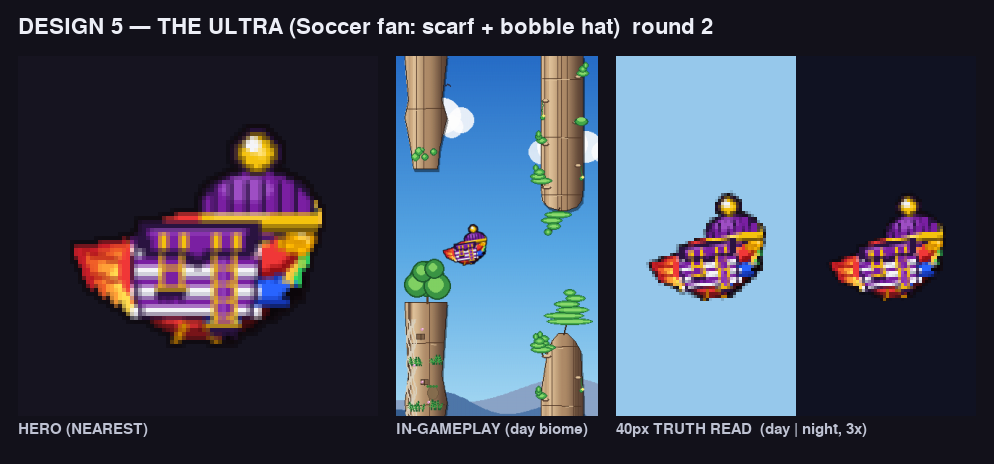
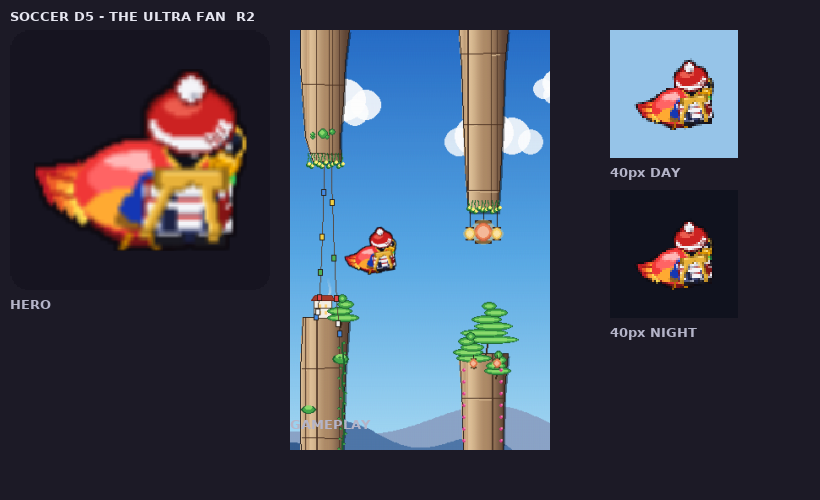
Soccer D5 Ultra Fan R2: V-split scarf tails, hat separation, boot sole
Claude-Session: https://claude.ai/code/session_01HafGQfRZVDiGkQqpJPr5Cm

diff --git a/tools/soccer_candidates/design_5.py b/tools/soccer_candidates/design_5.py
@@ -72,7 +72,9 @@ def _paint(surf, _a):
     # --- BOOTS at the feet line (HY+24..27) with a sole tick --------------------
     for fx in (HX - 11, HX + 1):
         pygame.draw.rect(surf, _DARK, (fx, HY + 24, 9, 3), border_radius=2)
-        pygame.draw.line(surf, _NAVY_H, (fx + 1, HY + 24), (fx + 7, HY + 24), 1)
+        # Bright top-edge highlight so the dark boots still read as feet against
+        # the night sky, where a near-black boot otherwise vanishes.
+        pygame.draw.line(surf, _WHITE_D, (fx + 1, HY + 24), (fx + 7, HY + 24), 1)
         # Sole tick under the boot — the football-boot read.
         pygame.draw.line(surf, _DARK, (fx, HY + 27), (fx + 8, HY + 27), 1)
 
@@ -82,7 +84,12 @@ def _paint(surf, _a):
     pygame.draw.ellipse(surf, _RED_D, (HX - 13, CROWN_Y - 9, 26, 19))   # rim halo
     pygame.draw.ellipse(surf, _RED, (HX - 12, CROWN_Y - 8, 24, 18))
     pygame.draw.ellipse(surf, _RED_H, (HX - 8, CROWN_Y - 6, 11, 6))      # dome sheen
-    # White rim line hugging the cap's lower edge so the hat separates from crown.
+    # Dark-red separation ring along the cap's lower edge: both hat and crown are
+    # club red, so without this seam the dome merges into the macaw's head. The
+    # bright white rim arc then sits just inside it, so the hat reads as a
+    # distinct object resting ON the head, not painted onto it.
+    pygame.draw.arc(surf, _RED_D, (HX - 13, CROWN_Y - 7, 26, 18),
+                    3.30, 6.12, 2)
     pygame.draw.arc(surf, _WHITE, (HX - 12, CROWN_Y - 8, 24, 18),
                     3.34, 6.08, 2)
     # Pompom standing on the very top — white ball with a dark ring.
@@ -91,34 +98,35 @@ def _paint(surf, _a):
     pygame.draw.circle(surf, _WHITE_D, (HX + 1, CROWN_Y - 6), 1)
 
     # --- SCARF (THE HERO — drawn LAST so it drapes in FRONT of everything) -------
-    # A gold club scarf looped once at the neck, with two staggered hanging tails.
-    # Gold shadow + bright gold face on every shape so the knit reads as fabric
-    # draped over the shirt, not a flat sticker. Loop sits at HY+5..11.
-    loop = [(HX - 13, HY + 5), (HX + 12, HY + 5), (HX + 12, HY + 11),
-            (HX + 3, HY + 11), (HX, HY + 9), (HX - 3, HY + 11), (HX - 12, HY + 11)]
+    # A gold club scarf looped once at the neck, then SPLIT into a clear V at the
+    # throat: one tail draped out along the LEFT wing edge, one down the RIGHT,
+    # with a strip of bare red jersey (and its white hoops) showing between them.
+    # Narrowed 2px each side vs v1 so at least two jersey hoops stay visible.
+    loop = [(HX - 11, HY + 5), (HX + 10, HY + 5), (HX + 10, HY + 11),
+            (HX + 3, HY + 11), (HX, HY + 9), (HX - 3, HY + 11), (HX - 10, HY + 11)]
     _poly(surf, _GOLD_D, loop)
-    loop_in = [(HX - 11, HY + 6), (HX + 10, HY + 6), (HX + 10, HY + 10),
-               (HX + 3, HY + 10), (HX, HY + 8), (HX - 3, HY + 10), (HX - 10, HY + 10)]
+    loop_in = [(HX - 9, HY + 6), (HX + 8, HY + 6), (HX + 8, HY + 10),
+               (HX + 3, HY + 10), (HX, HY + 8), (HX - 3, HY + 10), (HX - 8, HY + 10)]
     _poly(surf, _GOLD, loop_in)
-    pygame.draw.line(surf, _GOLD_H, (HX - 10, HY + 6), (HX + 9, HY + 6), 1)
+    pygame.draw.line(surf, _GOLD_H, (HX - 8, HY + 6), (HX + 7, HY + 6), 1)
     pygame.draw.polygon(surf, _GOLD_D, loop, 1)
 
-    def _tail(x0, y0, x1, y1, w):
-        # A gold knit strap draped down the chest: a dark gold underlay for
-        # thickness, a bright gold face, and a notched fringe at the hanging end.
-        half = w // 2
-        pygame.draw.line(surf, _GOLD_D, (x0, y0), (x1, y1), w)
-        pygame.draw.line(surf, _GOLD, (x0, y0), (x1, y1), max(2, w - 2))
-        pygame.draw.line(surf, _GOLD_H, (x0 - half + 1, y0), (x1 - half + 1, y1), 1)
-        # Fringe-tick ends — two short gold teeth past the hem so it frays.
-        for fx in (x1 - half, x1, x1 + half):
+    def _tail(x0, y0, x1, y1):
+        # A gold knit strap draped down the chest: a dark gold underlay (4px) for
+        # thickness, a bright 3px gold face, a 1px glint, and a notched fringe at
+        # the hanging end. Kept narrow so the two tails stay distinct streamers.
+        pygame.draw.line(surf, _GOLD_D, (x0, y0), (x1, y1), 4)
+        pygame.draw.line(surf, _GOLD, (x0, y0), (x1, y1), 3)
+        pygame.draw.line(surf, _GOLD_H, (x0 - 1, y0), (x1 - 1, y1), 1)
+        # Fringe-tick ends — short gold teeth past the hem so it frays.
+        for fx in (x1 - 1, x1, x1 + 1):
             pygame.draw.line(surf, _GOLD_D, (fx, y1), (fx, y1 + 2), 1)
-        pygame.draw.line(surf, _GOLD, (x1 - half, y1 + 1), (x1 + half, y1 + 1), 1)
+        pygame.draw.line(surf, _GOLD, (x1 - 1, y1 + 1), (x1 + 1, y1 + 1), 1)
 
-    # Near tail — longer, drops to ~HY+24, 5px wide. Far tail — shorter (2px
-    # above), ~HY+22, 4px wide. Staggered length reads them as two streamers.
-    _tail(HX + 2, HY + 10, HX + 4, HY + 24, 5)
-    _tail(HX - 6, HY + 10, HX - 10, HY + 22, 4)
+    # V-SPLIT at the neck: tails angle OUTWARD, not parallel. The 4-5px gap of
+    # bare red jersey between their tops keeps two white hoops reading through.
+    _tail(HX - 8, HY + 11, HX - 14, HY + 23)   # LEFT tail, out along the wing
+    _tail(HX + 4, HY + 11, HX + 6, HY + 24)    # RIGHT tail, down the side
 
 
 build = store_skins._make_skin(_paint)
